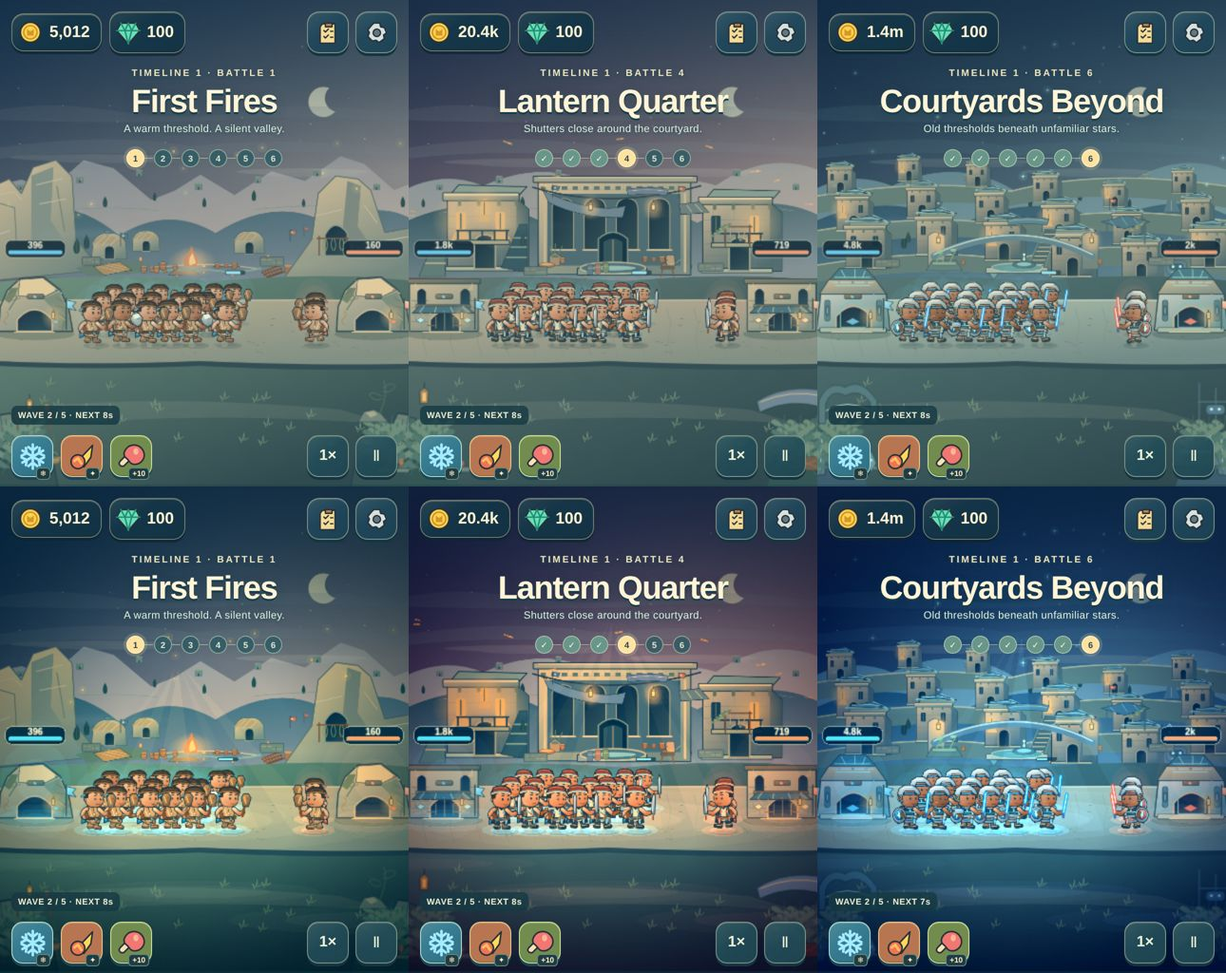
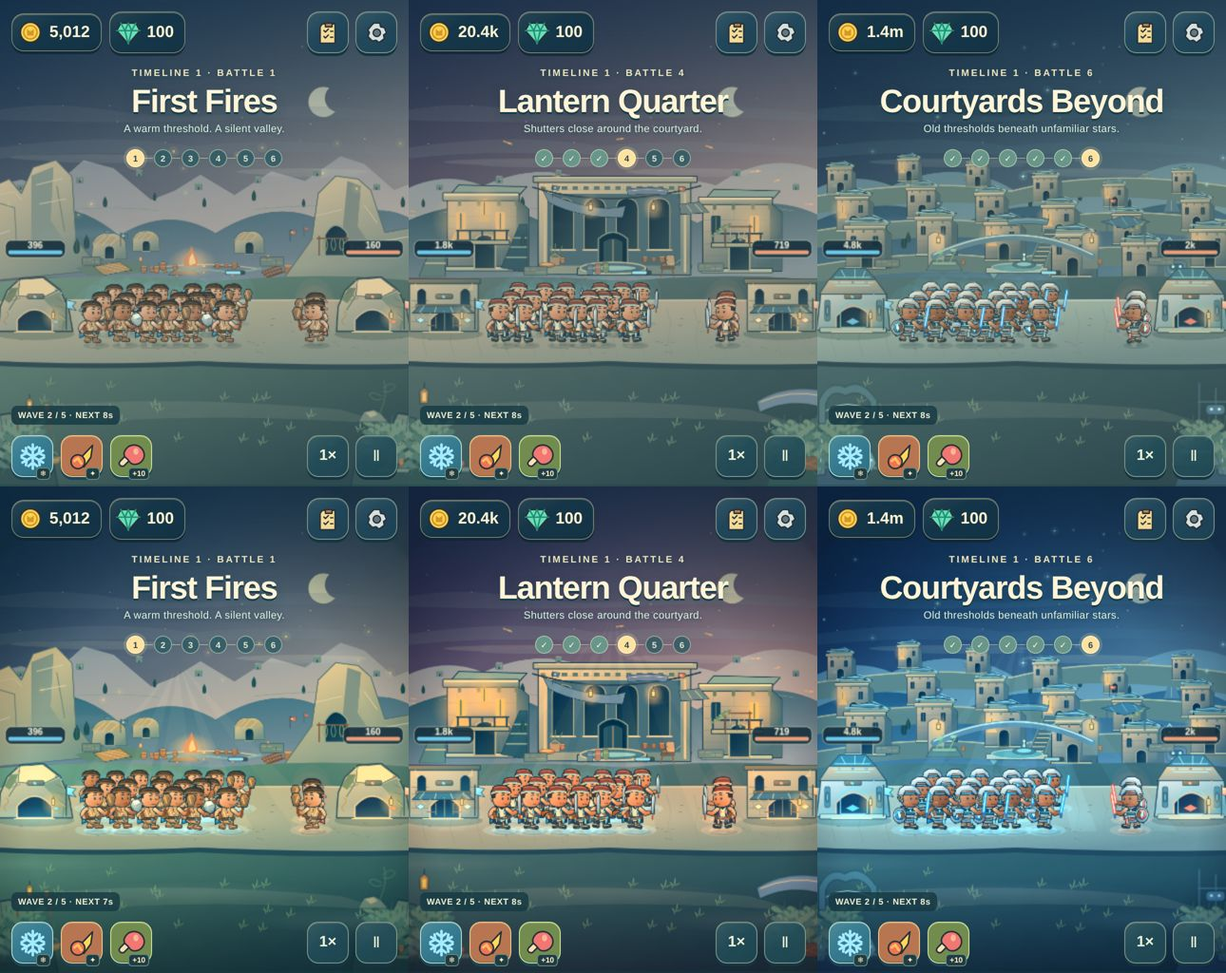
Bake the grade, rays and vignette into static art
Review findings on #21: the camera ColorMatrix post pass cost ~20% fps,
the per-frame vignette darkened both outposts by 23-27%, and the
full-screen blended layers were fill-rate bound. The grade is now baked
once per chapter into landscape, foreground, outpost and troop textures,
and rays and vignette are painted into the art with an outpost-clear
core. Soft lights are pooled gradient quads. Headless fps: main 41-42,
first draft 32, now 36.5-39.

Claude-Session: https://claude.ai/code/session_01QbT5MF7onx4uLBXAcanqYm

Changed region(s): [[0.0, 0.5938, 0.8682, 1.0], [0.8992, 0.5938, 1.0, 1.0], [0.4031, 0.625, 0.4341, 0.6562]]

diff --git a/src/view/battlefield.ts b/src/view/battlefield.ts
@@ -12,7 +12,7 @@ import {healthOffset,lanePresentation,projectileLift,troopScale} from './lane-pe
 import {unitFocusMarks} from './silhouette-focus.ts';
 import {visualAssets,baseTexture,foregroundTexture,unitTexture,landscapeTexture} from './visual-assets.ts';
 import {projectileGeometry,paintProjectile,projectileStyle} from './projectile-art.ts';
-import {eraGrade,gradeMatrix,keyLightRays,projectileGlow,stageGlow,teamHalo,vignetteStops,foregroundMist} from './cinematic-grade.ts';
+import {VIGNETTE_RADIUS,eraGrade,gradeMatrix,gradePixels,keyLightRays,projectileGlow,stageGlow,teamHalo,vignetteStops,foregroundMist,type GlowMark} from './cinematic-grade.ts';
 import {DeathVisuals} from './death-visuals.ts';
 import {TROOP_FRAME} from './unit-illustrations.ts';
 import {compactNumber} from '../ui/battle-hud.ts';
@@ -49,13 +49,11 @@ export function mountBattlefield(element:HTMLElement,game:GamePort,onFrame:()=>v
   private shadows!:Phaser.GameObjects.Graphics;
   private fx!:Phaser.GameObjects.Graphics;
   private bars!:Phaser.GameObjects.Graphics;
-  private rays!:Phaser.GameObjects.Graphics;
-  private stageLight!:Phaser.GameObjects.Graphics;
+  private stageLight!:Phaser.GameObjects.Container;
   private halos!:Phaser.GameObjects.Graphics;
   private glow!:Phaser.GameObjects.Graphics;
-  private mist!:Phaser.GameObjects.Graphics;
-  private vignette!:Phaser.GameObjects.Image;
-  private grade:Phaser.FX.ColorMatrix|null=null;
+  private mist!:Phaser.GameObjects.Container;
+  private graded=new Set<string>();
   private flares:Flare[]=[];
   private playerBase!:ImageOrFallback;
   private enemyBase!:ImageOrFallback;
@@ -83,6 +81,7 @@ export function mountBattlefield(element:HTMLElement,game:GamePort,onFrame:()=>v
   }
   create():void {
    if(disposed)return;
+   this.layout=arenaLayout(this.scale.width,this.scale.height);
    for(const asset of visualAssets())if(asset.frames&&this.textures.exists(asset.key)){
     const texture=this.textures.get(asset.key);
     for(let frame=0;frame<asset.frames;frame++)texture.add(String(frame),0,frame*TROOP_FRAME.width,0,TROOP_FRAME.width,TROOP_FRAME.height);
@@ -91,9 +90,8 @@ export function mountBattlefield(element:HTMLElement,game:GamePort,onFrame:()=>v
    this.sky=this.add.image(0,0,this.textures.exists(landscapeTexture(game.profile.age))?landscapeTexture(game.profile.age):'__WHITE').setOrigin(0);
    this.world.add(this.sky);
    this.ambience=this.add.graphics();this.world.add(this.ambience);
-   this.rays=this.add.graphics().setBlendMode(Phaser.BlendModes.ADD);this.world.add(this.rays);
    this.basesLayer=this.add.container();this.world.add(this.basesLayer);
-   this.stageLight=this.add.graphics().setBlendMode(Phaser.BlendModes.ADD);this.world.add(this.stageLight);
+   this.stageLight=this.add.container();this.world.add(this.stageLight);
    this.baseDamage=this.add.graphics();this.world.add(this.baseDamage);
    this.shadows=this.add.graphics();this.world.add(this.shadows);
    this.halos=this.add.graphics().setBlendMode(Phaser.BlendModes.ADD);this.world.add(this.halos);
@@ -101,8 +99,7 @@ export function mountBattlefield(element:HTMLElement,game:GamePort,onFrame:()=>v
    this.foreground=this.add.image(0,0,this.textures.exists(foregroundTexture(game.profile.age))?foregroundTexture(game.profile.age):'__WHITE').setOrigin(0);
    if(this.foreground.texture.key==='__WHITE')this.foreground.setVisible(false);
    this.world.add(this.foreground);
-   this.mist=this.add.graphics();this.world.add(this.mist);
-   this.vignette=this.add.image(0,0,'__WHITE').setOrigin(0).setVisible(false);this.world.add(this.vignette);
+   this.mist=this.add.container();this.world.add(this.mist);
    this.actionFx=this.add.graphics();this.world.add(this.actionFx);
    this.fx=this.add.graphics();this.world.add(this.fx);
    this.glow=this.add.graphics().setBlendMode(Phaser.BlendModes.ADD);this.world.add(this.glow);
@@ -113,10 +110,6 @@ export function mountBattlefield(element:HTMLElement,game:GamePort,onFrame:()=>v
    }
    this.scale.on('resize',this.resize,this);
    this.events.once('shutdown',()=>{this.scale.off('resize',this.resize,this);this.resetEffects();this.units.clear();this.idle=[];});
-   if(this.renderer.type===Phaser.WEBGL){
-    const camera=this.cameras.main;
-    this.grade=camera.postFX.addColorMatrix();
-   }
    this.resize();this.syncEra();loading.remove();
    if(this.failed)element.dispatchEvent(new CustomEvent('visual-fallback',{bubbles:true}));
   }
@@ -126,27 +119,53 @@ export function mountBattlefield(element:HTMLElement,game:GamePort,onFrame:()=>v
    this.world.setScale(this.layout.scale); // one scale: heads, circles and bodies never stretch
    this.placeLandscape();
    this.placeForeground();
-   this.placeVignette();
    this.resetEffects();
   }
-  /** One cached radial texture per chapter, stretched over the arena so the lane stays the brightest band. */
-  private placeVignette():void {
-   if(!this.vignette)return;
-   const age=game.profile.age,key=`stage-vignette-${age}`;
-   if(!this.textures.exists(key)){
-    const texture=this.textures.createCanvas(key,256,256);
-    const ctx=texture?.getContext();
-    if(!texture||!ctx){this.vignette.setVisible(false);return;}
-    const {center,stops,floor,color}=vignetteStops(age),rgb=`${color>>16&255},${color>>8&255},${color&255}`;
-    const radial=ctx.createRadialGradient(center.x*256,center.y*256,0,center.x*256,center.y*256,181);
-    for(const [at,alpha]of stops)radial.addColorStop(at,`rgba(${rgb},${alpha})`);
-    ctx.fillStyle=radial;ctx.fillRect(0,0,256,256);
-    const base=ctx.createLinearGradient(0,center.y*256+40,0,256);
-    base.addColorStop(0,`rgba(${rgb},0)`);base.addColorStop(1,`rgba(${rgb},${floor})`);
-    ctx.fillStyle=base;ctx.fillRect(0,0,256,256);
-    texture.refresh();
+  /**
+   * Bakes the chapter grade into its static art once: no per-frame post pass, and Canvas and WebGL match.
+   * Frames are sub-rectangles of the same source, so sprite sheets keep their cells. A tainted or
+   * unavailable canvas leaves the art ungraded rather than failing.
+   */
+  /**
+   * Static key-light rays and the stage vignette, painted into the art in its own source space
+   * (map: world→source). Baked because full-screen blended layers cost ~5 fps each on fill-limited GPUs.
+   */
+  private finishStage(ctx:CanvasRenderingContext2D,age:number,map:{x:number;y:number;kx:number;ky:number}):void {
+   const sx=(x:number)=>(x-map.x)*map.kx,sy=(y:number)=>(y-map.y)*map.ky,h=this.layout.height,{groundY}=this.layout;
+   const rgba=(color:number,alpha:number)=>`rgba(${color>>16&255},${color>>8&255},${color&255},${alpha})`;
+   ctx.save();ctx.globalCompositeOperation='lighter';
+   for(const ray of keyLightRays(age,groundY,0,true)){ctx.fillStyle=rgba(ray.color,ray.alpha);ctx.beginPath();ctx.moveTo(sx(ray.x1),sy(ray.y1));ctx.lineTo(sx(ray.x2),sy(ray.y2));ctx.lineTo(sx(ray.x3),sy(ray.y3));ctx.closePath();ctx.fill();}
+   ctx.restore();ctx.save();ctx.globalCompositeOperation='source-atop';
+   const {center,stops,floor,color}=vignetteStops(age),rx=VIGNETTE_RADIUS/256*450*map.kx,ry=VIGNETTE_RADIUS/256*h*map.ky;
+   ctx.translate(sx(center.x*450),sy(center.y*h));ctx.scale(1,ry/rx);
+   const radial=ctx.createRadialGradient(0,0,0,0,0,rx);for(const [at,alpha]of stops)radial.addColorStop(at,rgba(color,alpha));
+   ctx.fillStyle=radial;ctx.fillRect(-4*rx,-4*rx,8*rx,8*rx);
+   ctx.setTransform(1,0,0,1,0,0);
+   const base=ctx.createLinearGradient(0,sy((center.y+40/256)*h),0,sy(h));base.addColorStop(0,rgba(color,0));base.addColorStop(1,rgba(color,floor));
+   ctx.fillStyle=base;ctx.fillRect(0,0,ctx.canvas.width,ctx.canvas.height);
+   ctx.restore();
+  }
+  private bakeGrade(age:number):void {
+   const matrix=gradeMatrix(eraGrade(age));
+   const keys=[landscapeTexture(age),foregroundTexture(age)];
+   for(const side of ['player','enemy'] as const){keys.push(baseTexture(age,side));for(const kind of [0,1,2] as const)keys.push(unitTexture(age,kind,side));}
+   for(const key of keys){
+    if(this.graded.has(key)||!this.textures.exists(key))continue;
+    this.graded.add(key);
+    const source=this.textures.get(key).source[0],image=source?.image as CanvasImageSource|undefined;
+    if(!source||!image||!source.width||!source.height)continue;
+    try{
+     const canvas=document.createElement('canvas');canvas.width=source.width;canvas.height=source.height;
+     const ctx=canvas.getContext('2d',{willReadFrequently:true});if(!ctx)continue;
+     ctx.drawImage(image,0,0);
+     const pixels=ctx.getImageData(0,0,canvas.width,canvas.height);gradePixels(pixels.data,matrix);ctx.putImageData(pixels,0,0);
+     if(key===landscapeTexture(age)){const w=landscapePlacement(450,this.layout.height,this.layout.groundY);this.finishStage(ctx,age,{x:w.x,y:w.y,kx:1/w.scale,ky:1/w.scale});}
+     if(key===foregroundTexture(age)){const f=foregroundPlacement(450,this.layout.height,this.layout.groundY);this.finishStage(ctx,age,{x:f.x,y:f.y,kx:canvas.width/f.width,ky:canvas.height/f.height});}
+     source.image=canvas;source.source=canvas;source.isCanvas=true;
+     const renderer=this.renderer;
+     if(renderer instanceof Phaser.Renderer.WebGL.WebGLRenderer&&source.glTexture)renderer.updateCanvasTexture(canvas,source.glTexture,source.flipY);
+    }catch{/* keep the ungraded, still-lit art */}
    }
-   this.vignette.setTexture(key).setPosition(0,0).setDisplaySize(450,this.layout.height).setVisible(true);
   }
   private placeLandscape():void {
    if(!this.sky)return;
@@ -176,11 +195,11 @@ export function mountBattlefield(element:HTMLElement,game:GamePort,onFrame:()=>v
   private syncEra():void {
    const p=game.profile,key=`${p.age}:${p.enemyAge}`;
    if(this.ages===key)return;this.ages=key;
+   this.bakeGrade(p.age);this.bakeGrade(p.enemyAge);
    const backdrop=landscapeTexture(p.age),foreground=foregroundTexture(p.age);
    if(this.textures.exists(backdrop))this.sky.setTexture(backdrop).clearTint();else this.sky.setTexture('__WHITE').setTint(tint(visualEra(p.age).ground));
    if(this.textures.exists(foreground))this.foreground.setTexture(foreground).setVisible(true).clearTint();else this.foreground.setVisible(false);
-   this.placeLandscape();this.placeForeground();this.placeVignette();
-   this.grade?.set(gradeMatrix(eraGrade(p.age)));
+   this.placeLandscape();this.placeForeground();
    this.playerBase?.destroy();this.enemyBase?.destroy();
    this.playerBase=this.createBase(p.age,'player');this.enemyBase=this.createBase(p.enemyAge,'enemy');
    this.basesLayer.add([this.playerBase,this.enemyBase]);
@@ -206,8 +225,8 @@ export function mountBattlefield(element:HTMLElement,game:GamePort,onFrame:()=>v
     for(const mark of unitFocusMarks(unit.side,unit.lane,unit.kind,unit.hitFlash,frozen)){g.fillStyle(mark.color,mark.alpha);g.fillEllipse(x+mark.x,y+mark.y,mark.width,mark.height);}
     g.fillStyle(0x243c42,perspective.shadowAlpha);g.fillEllipse(x+3,y+3,perspective.shadowWidth,perspective.shadowHeight);
     const halo=teamHalo(unit.side,unit.kind,perspective.scale,unit.hitFlash,frozen);
-    h.fillStyle(halo.color,halo.alpha*.45);h.fillEllipse(x+halo.x,y+halo.y,halo.rx*2,halo.ry*2);
-    h.fillStyle(halo.color,halo.alpha*.6);h.fillEllipse(x+halo.x,y+halo.y,halo.rx*1.2,halo.ry*1.1);
+    h.fillStyle(halo.color,halo.alpha*.45);h.fillEllipse(x+halo.x,y+halo.y,halo.rx*2,halo.ry*2,12);
+    h.fillStyle(halo.color,halo.alpha*.6);h.fillEllipse(x+halo.x,y+halo.y,halo.rx*1.2,halo.ry*1.1,10);
     g.fillStyle(0x2a4647,perspective.shadowAlpha*.82);g.fillEllipse(x+2,y+2,perspective.shadowWidth*.68,perspective.shadowHeight*.38);
     if(view.body instanceof Phaser.GameObjects.Image){
      if(!game.state.paused)view.body.setFrame(String(pose.frame));
@@ -263,14 +282,28 @@ export function mountBattlefield(element:HTMLElement,game:GamePort,onFrame:()=>v
     }
    }
   }
+  /** One cached white radial falloff; every soft light is a tinted quad of it instead of tessellated nested ellipses. */
+  private softTexture():string {
+   const key='soft-light';
+   if(!this.textures.exists(key)){
+    const texture=this.textures.createCanvas(key,128,128),ctx=texture?.getContext();
+    if(texture&&ctx){const g=ctx.createRadialGradient(64,64,0,64,64,64);g.addColorStop(0,'rgba(255,255,255,1)');g.addColorStop(.45,'rgba(255,255,255,.55)');g.addColorStop(1,'rgba(255,255,255,0)');ctx.fillStyle=g;ctx.fillRect(0,0,128,128);texture.refresh();}
+   }
+   return key;
+  }
+  private paintSoft(pool:Phaser.GameObjects.Container,marks:readonly GlowMark[],blend:Phaser.BlendModes):void {
+   const key=this.softTexture();
+   while(pool.length<marks.length)pool.add(this.add.image(0,0,key).setBlendMode(blend));
+   pool.list.forEach((child,i)=>{
+    const image=child as Phaser.GameObjects.Image,mark=marks[i];
+    if(!mark){image.setVisible(false);return;}
+    image.setVisible(true).setPosition(mark.x,mark.y).setDisplaySize(mark.rx*2,mark.ry*2).setTint(mark.color).setAlpha(Math.min(1,mark.alpha));
+   });
+  }
   private drawStageLight():void {
-   const r=this.rays,l=this.stageLight,s=game.state,age=game.profile.age;r.clear();l.clear();
-   for(const ray of keyLightRays(age,this.layout.groundY,this.clock,this.reduce)){r.fillStyle(ray.color,ray.alpha);r.fillTriangle(ray.x1,ray.y1,ray.x2,ray.y2,ray.x3,ray.y3);}
-   const m=this.mist;m.clear();
-   for(const mark of foregroundMist(age,this.layout.groundY,this.layout.height,this.clock,this.reduce))
-    for(const [scale,opacity]of [[1,.5],[.6,.7]] as const){m.fillStyle(mark.color,mark.alpha*opacity);m.fillEllipse(mark.x,mark.y,mark.rx*2*scale,mark.ry*2*scale);}
-   for(const mark of stageGlow(age,this.layout.groundY,this.clock,this.reduce,s.playerHp/Math.max(1,s.playerMaxHp),s.enemyHp/Math.max(1,s.enemyMaxHp)))
-    for(const [scale,opacity]of [[1,.3],[.66,.4],[.36,.5]] as const){l.fillStyle(mark.color,mark.alpha*opacity);l.fillEllipse(mark.x,mark.y,mark.rx*2*scale,mark.ry*2*scale);}
+   const s=game.state,age=game.profile.age;
+   this.paintSoft(this.mist,foregroundMist(age,this.layout.groundY,this.layout.height,this.clock,this.reduce).map(m=>({...m,alpha:m.alpha*1.1})),Phaser.BlendModes.NORMAL);
+   this.paintSoft(this.stageLight,stageGlow(age,this.layout.groundY,this.clock,this.reduce,s.playerHp/Math.max(1,s.playerMaxHp),s.enemyHp/Math.max(1,s.enemyMaxHp)).map(m=>({...m,alpha:m.alpha*1.1})),Phaser.BlendModes.ADD);
   }
   private flare(x:number,y:number,radius:number,color:number,life=.22):void {
    if(this.reduce)return;

diff --git a/src/view/cinematic-grade.ts b/src/view/cinematic-grade.ts
@@ -22,12 +22,12 @@ export interface GlowMark {x:number;y:number;rx:number;ry:number;color:number;al
 export interface RayMark {x1:number;y1:number;x2:number;y2:number;x3:number;y3:number;color:number;alpha:number}
 
 const GRADES:readonly EraGrade[]=Object.freeze(([
-  {saturation:1.32,contrast:1.2,gain:[1.05,1.02,.95],lift:[4,6,12],vignette:{inner:.34,outer:.86,alpha:.58,floor:.5,color:0x0d1a1f},key:{x:196,rise:34,color:0xffb866,rays:5,alpha:.04},stage:{color:0xffc987,alpha:.07}},
-  {saturation:1.3,contrast:1.18,gain:[1.07,1.02,.93],lift:[5,5,12],vignette:{inner:.34,outer:.86,alpha:.55,floor:.5,color:0x151a1c},key:{x:214,rise:58,color:0xffbe70,rays:5,alpha:.04},stage:{color:0xffd08c,alpha:.07}},
-  {saturation:1.26,contrast:1.18,gain:[1.04,1.02,.97],lift:[3,6,13],vignette:{inner:.36,outer:.88,alpha:.52,floor:.46,color:0x0e1a22},key:{x:236,rise:62,color:0xffcf8a,rays:4,alpha:.04},stage:{color:0xffd49a,alpha:.07}},
-  {saturation:1.34,contrast:1.22,gain:[1.08,1,.94],lift:[6,4,12],vignette:{inner:.33,outer:.85,alpha:.6,floor:.52,color:0x160f1c},key:{x:226,rise:86,color:0xffae6c,rays:6,alpha:.04},stage:{color:0xffbf85,alpha:.07}},
-  {saturation:1.22,contrast:1.2,gain:[1.03,1.02,.98],lift:[3,6,12],vignette:{inner:.35,outer:.87,alpha:.56,floor:.5,color:0x0c1719},key:{x:208,rise:106,color:0xffc98a,rays:4,alpha:.04},stage:{color:0xffd9a3,alpha:.07}},
-  {saturation:1.3,contrast:1.24,gain:[.98,1.02,1.08],lift:[4,6,16],vignette:{inner:.32,outer:.84,alpha:.62,floor:.54,color:0x080c1e},key:{x:225,rise:70,color:0x9fe9ff,rays:5,alpha:.04},stage:{color:0xa9eaff,alpha:.07}},
+  {saturation:1.32,contrast:1.2,gain:[1.05,1.02,.95],lift:[4,6,12],vignette:{inner:.62,outer:.98,alpha:.58,floor:.5,color:0x0d1a1f},key:{x:196,rise:34,color:0xffb866,rays:5,alpha:.04},stage:{color:0xffc987,alpha:.07}},
+  {saturation:1.3,contrast:1.18,gain:[1.07,1.02,.93],lift:[5,5,12],vignette:{inner:.62,outer:.98,alpha:.55,floor:.5,color:0x151a1c},key:{x:214,rise:58,color:0xffbe70,rays:5,alpha:.04},stage:{color:0xffd08c,alpha:.07}},
+  {saturation:1.26,contrast:1.18,gain:[1.04,1.02,.97],lift:[3,6,13],vignette:{inner:.62,outer:.98,alpha:.52,floor:.46,color:0x0e1a22},key:{x:236,rise:62,color:0xffcf8a,rays:4,alpha:.04},stage:{color:0xffd49a,alpha:.07}},
+  {saturation:1.34,contrast:1.22,gain:[1.08,1,.94],lift:[6,4,12],vignette:{inner:.62,outer:.98,alpha:.6,floor:.52,color:0x160f1c},key:{x:226,rise:86,color:0xffae6c,rays:6,alpha:.04},stage:{color:0xffbf85,alpha:.07}},
+  {saturation:1.22,contrast:1.2,gain:[1.03,1.02,.98],lift:[3,6,12],vignette:{inner:.62,outer:.98,alpha:.56,floor:.5,color:0x0c1719},key:{x:208,rise:106,color:0xffc98a,rays:4,alpha:.04},stage:{color:0xffd9a3,alpha:.07}},
+  {saturation:1.3,contrast:1.24,gain:[.98,1.02,1.08],lift:[4,6,16],vignette:{inner:.62,outer:.98,alpha:.62,floor:.54,color:0x080c1e},key:{x:225,rise:70,color:0x9fe9ff,rays:5,alpha:.04},stage:{color:0xa9eaff,alpha:.07}},
 ] as EraGrade[]).map(grade=>Object.freeze(grade)));
 
 const scene=(age:number)=>Number.isInteger(age)&&age>=0&&age<6?age:0;
@@ -60,10 +60,23 @@ export function applyGrade(matrix:readonly number[],rgb:readonly [number,number,
   return [0,1,2].map(i=>clamp(matrix[i*5]*r+matrix[i*5+1]*g+matrix[i*5+2]*b+matrix[i*5+4])) as [number,number,number];
 }
 
+/** Grades unpremultiplied RGBA pixels in place, once per static texture; transparent pixels are skipped. */
+export function gradePixels(data:Uint8ClampedArray,matrix:readonly number[]):void {
+  const [a,b,c,,d,e,f,g,,h,i,j,k,,l]=matrix;
+  for(let p=0;p<data.length;p+=4){
+    if(data[p+3]===0)continue;
+    const r=data[p],gr=data[p+1],bl=data[p+2];
+    data[p]=a*r+b*gr+c*bl+d;data[p+1]=e*r+f*gr+g*bl+h;data[p+2]=i*r+j*gr+k*bl+l;
+  }
+}
+
+/** Pixel radius of the 256² vignette texture's gradient; the stretched texture spans the whole arena. */
+export const VIGNETTE_RADIUS=181;
+
 /** Radial stops for the stage vignette. The lane is the brightest band; edges and the empty foreground recede. */
 export function vignetteStops(age:number):{center:{x:number;y:number};stops:readonly [number,number][];floor:number;color:number} {
   const v=eraGrade(age).vignette;
-  return {center:{x:.5,y:.6},stops:[[0,0],[v.inner,0],[(v.inner+v.outer)/2,v.alpha*.42],[v.outer,v.alpha*.82],[1,v.alpha]],floor:v.floor,color:v.color};
+  return {center:{x:.5,y:.64},stops:[[0,0],[v.inner,0],[(v.inner+v.outer)/2,v.alpha*.42],[v.outer,v.alpha*.82],[1,v.alpha]],floor:v.floor,color:v.color};
 }
 
 /** God rays from the chapter key light, fanning down across the lane. Additive, low alpha, slow breathing. */
@@ -123,4 +136,11 @@ export function foregroundMist(age:number,groundY:number,height:number,time:numb
     y:top+depth*(.2+i*.2)+Math.sin(t*.3+i)*2,
     rx:120+i*18,ry:9+i*3,color,alpha:.085+i*.012,
   }));
+}
+
+/** Vignette opacity at a normalized arena point, mirroring the canvas gradient; used to prove outposts stay clear. */
+export function vignetteAlphaAt(age:number,u:number,v:number):number {
+  const {center,stops}=vignetteStops(age),t=Math.hypot((u-center.x)*256,(v-center.y)*256)/VIGNETTE_RADIUS;
+  for(let i=1;i<stops.length;i++){const [p0,a0]=stops[i-1],[p1,a1]=stops[i];if(t<=p1)return t<=p0?a0:a0+(a1-a0)*(t-p0)/(p1-p0);}
+  return stops.at(-1)![1];
 }

diff --git a/tests/cinematic-grade.test.ts b/tests/cinematic-grade.test.ts
@@ -1,7 +1,7 @@
 import test from 'node:test';
 import assert from 'node:assert/strict';
 import {readFileSync} from 'node:fs';
-import {applyGrade,eraGrade,foregroundMist,gradeMatrix,keyLightRays,projectileGlow,stageGlow,teamHalo,vignetteStops} from '../src/view/cinematic-grade.ts';
+import {applyGrade,eraGrade,foregroundMist,gradeMatrix,gradePixels,vignetteAlphaAt,keyLightRays,projectileGlow,stageGlow,teamHalo,vignetteStops} from '../src/view/cinematic-grade.ts';
 
 const luma=([r,g,b]:readonly number[])=>.2126*r+.7152*g+.0722*b;
 const chroma=(c:readonly number[])=>Math.max(...c)-Math.min(...c);
@@ -92,12 +92,31 @@ test('foreground mist stays below the lane and disappears when there is no foreg
  assert.deepEqual(foregroundMist(0,280,300,0,false),[]);
 });
 
-test('battlefield applies the grade only on WebGL and keeps light layers additive and behind the HUD bars',()=>{
+test('outposts and the lane stay outside the vignette while corners recede',()=>{
+ for(let age=0;age<6;age++){
+  for(const u of [39/450,.5,411/450])assert.equal(vignetteAlphaAt(age,u,.66),0,`chapter ${age} darkens the fight at u=${u.toFixed(2)}`);
+  assert.ok(vignetteAlphaAt(age,0,0)>=.3&&vignetteAlphaAt(age,1,1)>=.3,`chapter ${age} corners must recede`);
+ }
+});
+
+test('baked pixel grade matches the matrix and leaves transparency alone',()=>{
+ const m=gradeMatrix(eraGrade(3)),data=new Uint8ClampedArray([150,132,112,255, 9,9,9,0, 40,44,48,128]);
+ gradePixels(data,m);
+ assert.deepEqual([...data.slice(0,3)],applyGrade(m,[150,132,112]).map(Math.round));
+ assert.deepEqual([...data.slice(4,8)],[9,9,9,0]);
+ assert.equal(data[11],128,'alpha is never graded');
+});
+
+test('battlefield bakes the grade into static art instead of paying a per-frame post pass',()=>{
  const source=readFileSync(new URL('../src/view/battlefield.ts',import.meta.url),'utf8');
- assert.match(source,/renderer\.type===Phaser\.WEBGL/);
- assert.match(source,/postFX\.addColorMatrix\(\)/);
- assert.doesNotMatch(source,/addBloom/,'unthresholded bloom washes the whole frame');
- for(const layer of ['rays','stageLight','halos','glow'])assert.match(source,new RegExp(`this\\.${layer}=this\\.add\\.graphics\\(\\)\\.setBlendMode\\(Phaser\\.BlendModes\\.ADD\\)`));
+ assert.doesNotMatch(source,/postFX|addBloom/,'full-screen post passes cost ~20% frame rate on software GL');
+ assert.match(source,/gradePixels\(pixels\.data,matrix\)/);
+ assert.match(source,/catch\{\/\* keep the ungraded/,'a tainted canvas must fall back, not crash');
+ assert.match(source,/this\.bakeGrade\(p\.age\);this\.bakeGrade\(p\.enemyAge\)/);
+ assert.match(source,/globalCompositeOperation='source-atop'/,'baked vignette must not paint into transparent foreground pixels');
+ assert.match(source,/keyLightRays\(age,groundY,0,true\)/,'baked rays use the still, reduced-motion composition');
+ assert.doesNotMatch(source,/this\.vignette|this\.rays/,'no full-screen blended layers per frame');
+ for(const layer of ['halos','glow'])assert.match(source,new RegExp(`this\\.${layer}=this\\.add\\.graphics\\(\\)\\.setBlendMode\\(Phaser\\.BlendModes\\.ADD\\)`));
  assert.ok(source.indexOf('this.glow=this.add.graphics()')<source.indexOf('this.bars=this.add.graphics()'),'health bars must draw above glow');
  assert.match(source,/private flare\([^)]*\):void \{\n\s+if\(this\.reduce\)return;/,'reduced motion must not flash');
  assert.match(source,/if\(!this\.reduce\)\{this\.cameras\.main\.shake\(100,\.0015\);this\.cameras\.main\.flash/);

diff --git a/docs/levantine-40/18-cinematic-grade.md b/docs/levantine-40/18-cinematic-grade.md
@@ -6,17 +6,20 @@ Baseline: `c23d7b2` (main after #20).
 Batches 04–17 kept every light field at alpha ≤ 0.1 and avoided shader state. Each was individually tasteful, but together the battlefield sat inside one narrow mid-grey band: sky, buildings, road and troops shared a value, nothing glowed, and blue and red armies were separated only by small accents. This pass supplies the missing value and colour range.
 
 ## What changed
-- **Camera colour grade** (`gradeMatrix`): per-chapter saturation about Rec.709 luma, contrast about mid-grey and a split-tone gain/lift, applied as one `postFX` ColorMatrix pass on WebGL only. Canvas renderers keep the ungraded, still-lit scene.
-- **Stage vignette** (`vignetteStops`): one cached 256² radial texture per chapter with a clear centre on the lane, and receding edges plus a darker empty foreground strip. It sits beneath health bars and HUD text.
-- **Key light rays** (`keyLightRays`): 4–6 faint additive shafts fanning from each chapter's practical light onto the lane. Alpha ≤ 0.06; they hold still under reduced motion.
-- **Team beacons and halos** (`stageGlow`, `teamHalo`): a cool cyan pool at the player outpost and an ember pool at the enemy's, which brighten as a base weakens. Every troop gets an additive team-coloured ground halo that flares on hit and turns icy when frozen.
-- **Additive combat light** (`projectileGlow`, flares): bullets, arrows, shells, energy bolts and meteors carry a light and trail; stones stay unlit. Impacts, spawns, deaths and victory emit short flares. Meteor and victory add a brief camera flash. Everything that flashes is skipped under reduced motion.
-- **Foreground mist** (`foregroundMist`): four slow bands in the strip below the lane, never above `groundY+34`.
+- **Baked colour grade** (`gradeMatrix`, `gradePixels`): per-chapter saturation about Rec.709 luma, contrast about mid-grey and a split-tone gain/lift. It is baked once per chapter into the landscape, foreground, outpost and troop-sheet textures when that chapter is first shown. There is no per-frame cost, and Canvas and WebGL look the same. A tainted or unavailable canvas leaves the art ungraded and never throws.
+- **Baked stage finish**: static key-light rays (additive) and the stage vignette are painted into the landscape and foreground art in their own source space. The vignette's clear core (`vignetteAlphaAt`) covers the whole lane, *including both outposts*, so only sky, corners and the empty foreground strip recede. `source-atop` keeps transparent foreground pixels transparent.
+- **Live soft light**: cool-cyan and ember team beacons that brighten as a base weakens, plus slow foreground mist. Each is one tinted quad from a cached radial-falloff texture, not tessellated nested ellipses.
+- **Team halos** (`teamHalo`): an additive team-coloured ground halo per troop that flares on hit and turns icy when frozen.
+- **Additive combat light** (`projectileGlow`, flares): bullets, arrows, shells, energy bolts and meteors carry a light and trail; stones stay unlit. Impacts, spawns, deaths and victory emit short flares, and meteor and victory add a brief camera flash. Everything that flashes is skipped under reduced motion.
 
-## Rejected
-Phaser's `Bloom` FX has no threshold: at any useful strength it blurred and milked the entire frame, including base HP numbers. It was removed, and a source contract now forbids `addBloom`. Glow comes only from the explicit additive layers.
+## Rejected after devil's-advocate review (PR #21)
+- **Phaser `Bloom`**: it has no threshold, so it milked the whole frame. A contract forbids it.
+- **Camera `postFX` ColorMatrix**: it cost ~20% frame rate every frame for a static grade.
+- **Per-frame vignette and ray layers**: full-screen blended quads are fill-rate bound; the vignette alone cost ~5 fps under SwiftShader. The first vignette also darkened both outposts by 23–27%.
+
+Frame rate (headless Chromium, SwiftShader, 430×900 @2x, chapter 4, 3 runs): main **41–42 fps**; first draft **32**; final **36.5–39**. The remaining ~10% comes from live beacons, mist, halos and combat glow.
 
 ## Verification
-- `tests/cinematic-grade.test.ts`: nine tests covering grade bounds (no clipped whites, no crushed shadow steps, widened mid-tones, richer muted colour), vignette monotonicity and clear lane, ray and mist bounds, reduced-motion stillness, team hue separation, and source contracts (WebGL-only grade, additive layers, bars above glow, no flash under reduced motion).
-- Full suite 261/261; production build passes.
-- **Rendered browser check**: headless Chromium (SwiftShader WebGL) at 430×900 @2x, all six chapters, a live battle with deployments, and zero page errors. Evidence: [before/after](evidence/18-before-after.jpg) and [six-chapter grid](evidence/18-v3-grid.jpg). Real-device, Safari and low-end GPU performance remain unmeasured.
+- `tests/cinematic-grade.test.ts`: eleven tests covering grade bounds (no clipped whites, no crushed shadow steps, widened mid-tones, richer muted colour), vignette monotonicity and clear lane, ray and mist bounds, reduced-motion stillness, team hue separation, and outpost-clear vignette, pixel-bake parity with the matrix, and source contracts (no postFX or bloom, no full-screen per-frame layers, `source-atop` bake, bars above glow, no flash under reduced motion).
+- Full suite 263/263; production build passes.
+- **Rendered browser check**: headless Chromium (SwiftShader WebGL) at 430×900 @2x, all six chapters, a live battle with deployments, and zero page errors. Evidence: [before/after](evidence/18-before-after.jpg) and [six-chapter grid](evidence/18-grid.jpg). Real-device, Safari and low-end GPU performance remain unmeasured.

diff --git a/docs/levantine-40/PROGRESS.md b/docs/levantine-40/PROGRESS.md
@@ -119,6 +119,6 @@ Seventeen connected refinements are now implemented toward forty. No scheduler; 
 
 
 ## 18 — Cinematic grade and practical light
-Added a per-chapter camera colour grade (WebGL only), a stage vignette, key-light rays, cool/ember team beacons, per-troop additive team halos, lit projectiles and impact flares, and foreground mist. Unthresholded bloom was tried and rejected because it washed out the frame. Nine new tests; full suite 261/261, build passed. This is the first batch with rendered-browser evidence (headless Chromium, all six chapters, zero page errors). Details: [18-cinematic-grade.md](18-cinematic-grade.md).
+Added a per-chapter colour grade, stage vignette and key-light rays baked into the static art, cool/ember team beacons, per-troop additive team halos, lit projectiles and impact flares, and foreground mist. A devil's-advocate review rejected bloom, a camera post pass (−20% fps) and per-frame vignette layers (they darkened the outposts), so the finished pass costs ~10% fps under software GL. Eleven new tests; full suite 263/263, build passed. This is the first batch with rendered-browser evidence (headless Chromium, all six chapters, zero page errors). Details: [18-cinematic-grade.md](18-cinematic-grade.md).
 
 Eighteen connected refinements are now implemented toward forty. Real-device and Safari acceptance remain open.
